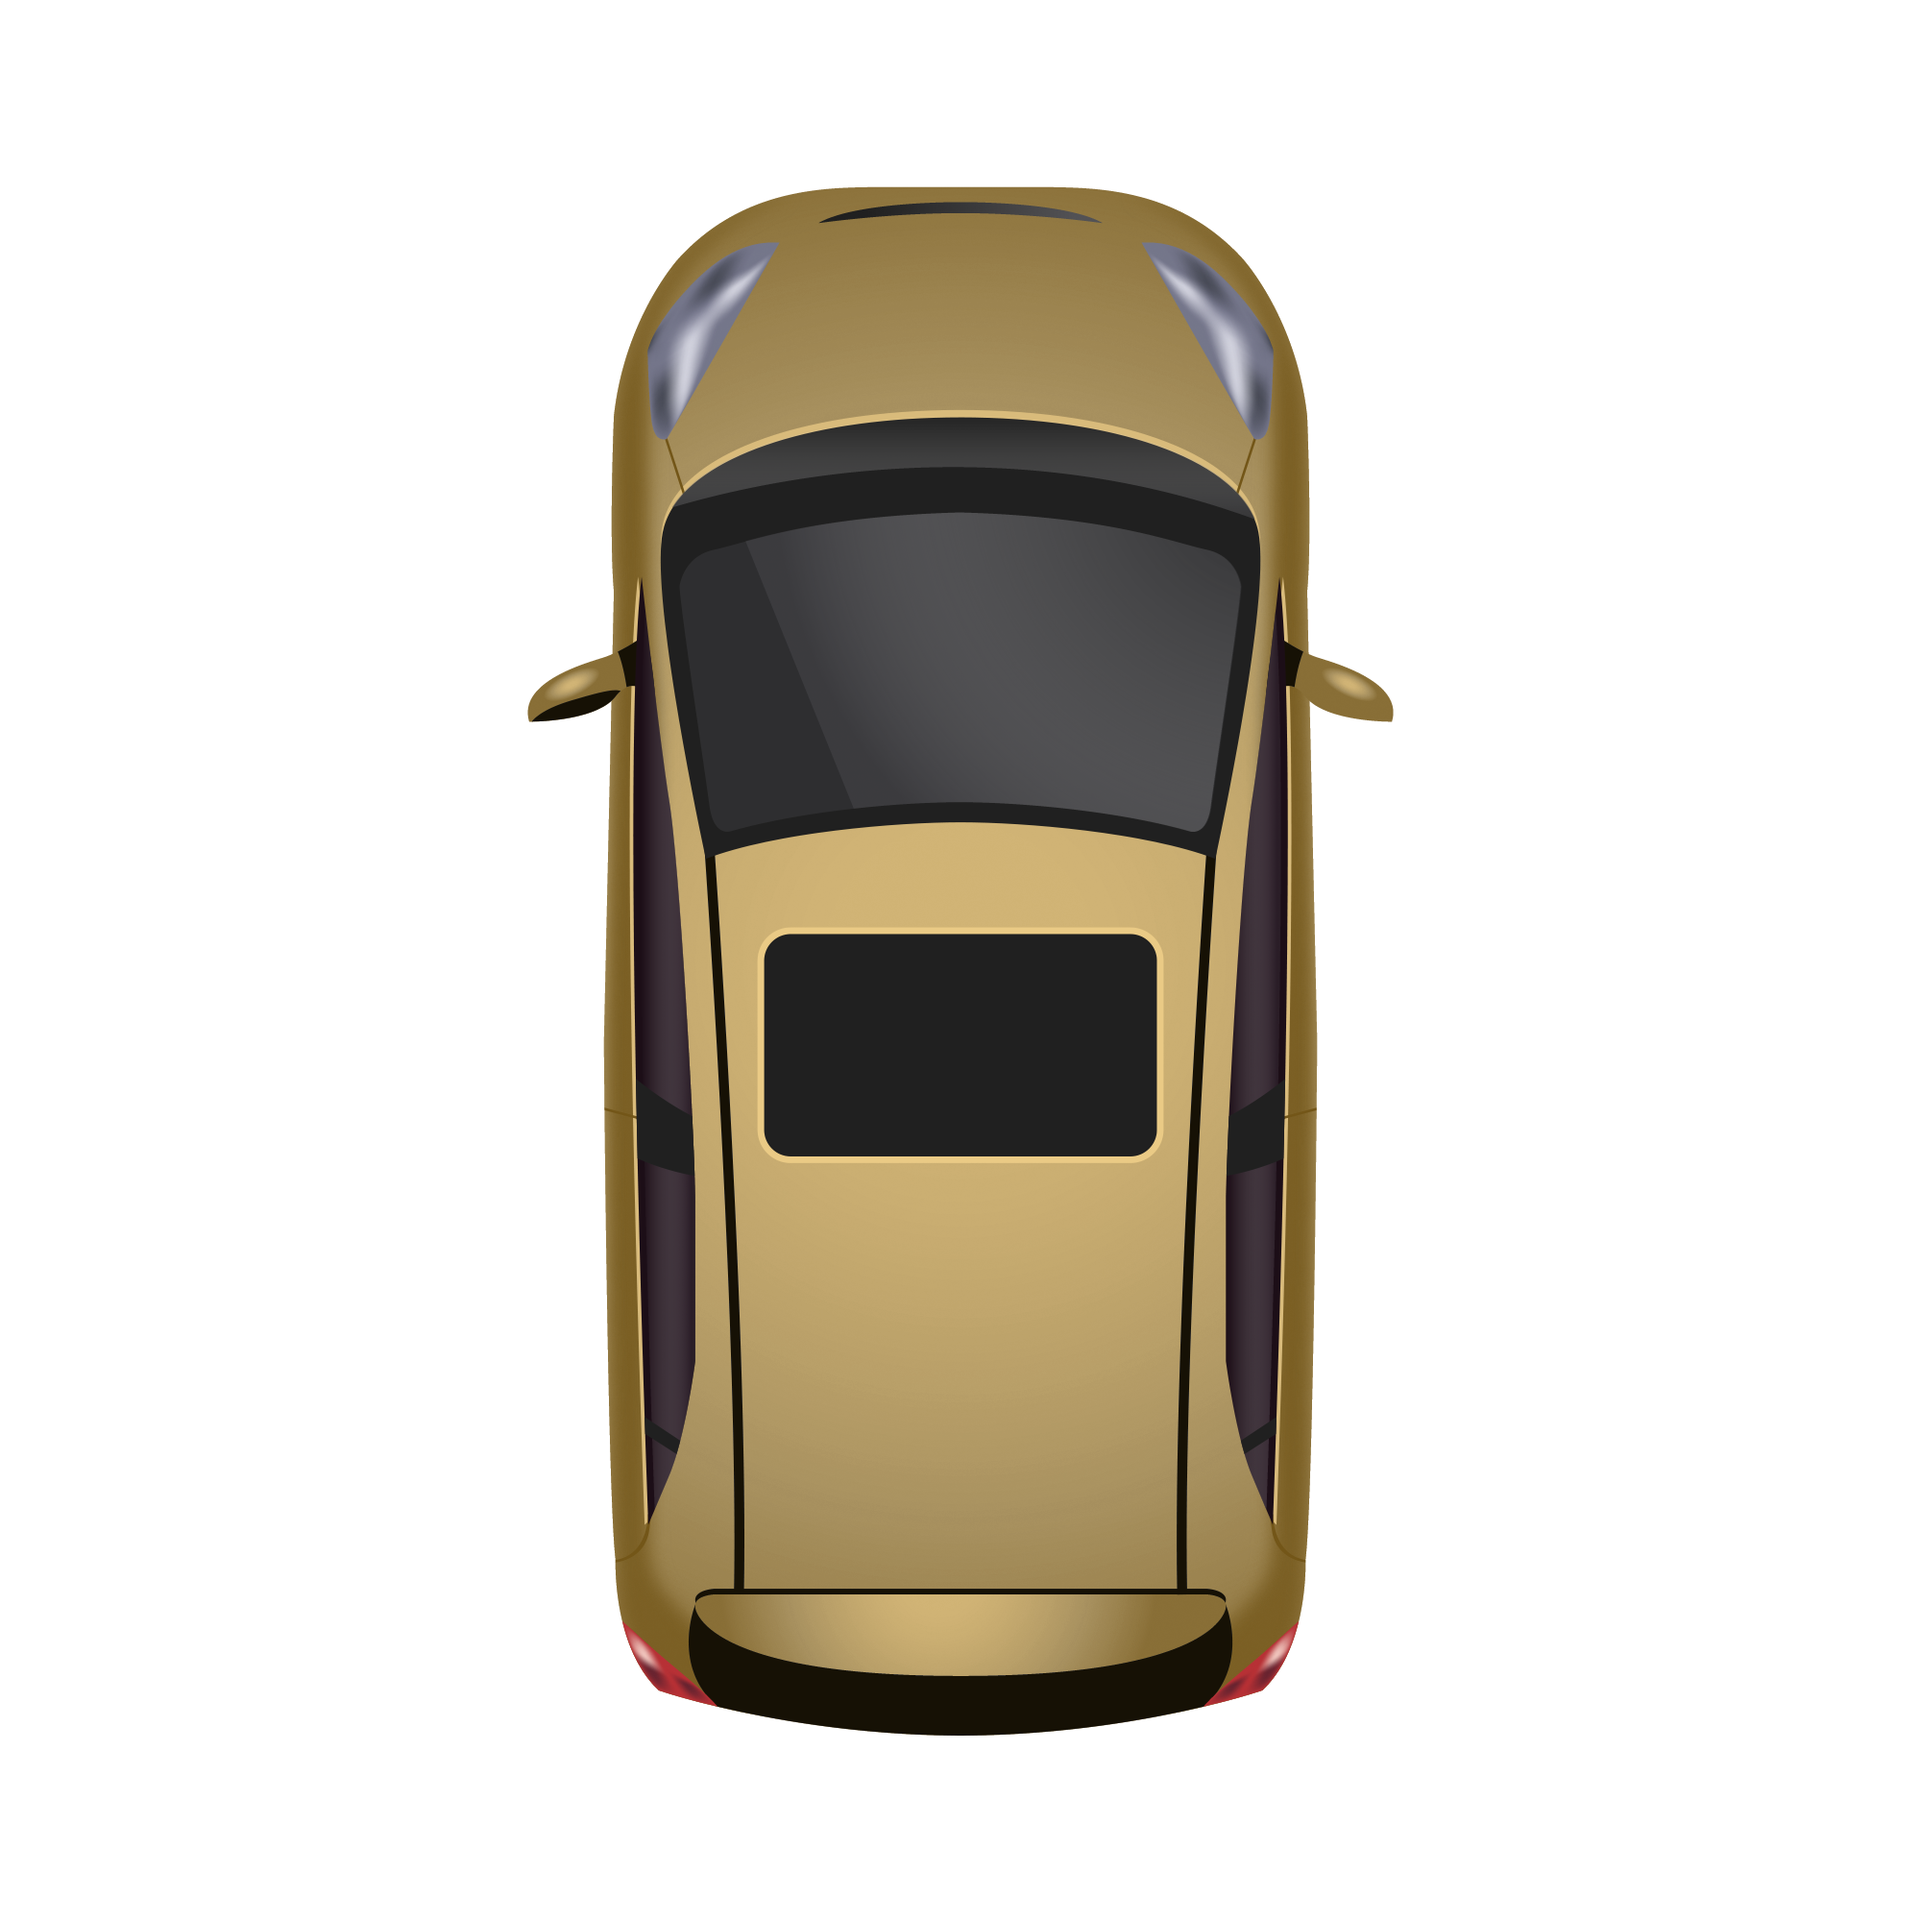
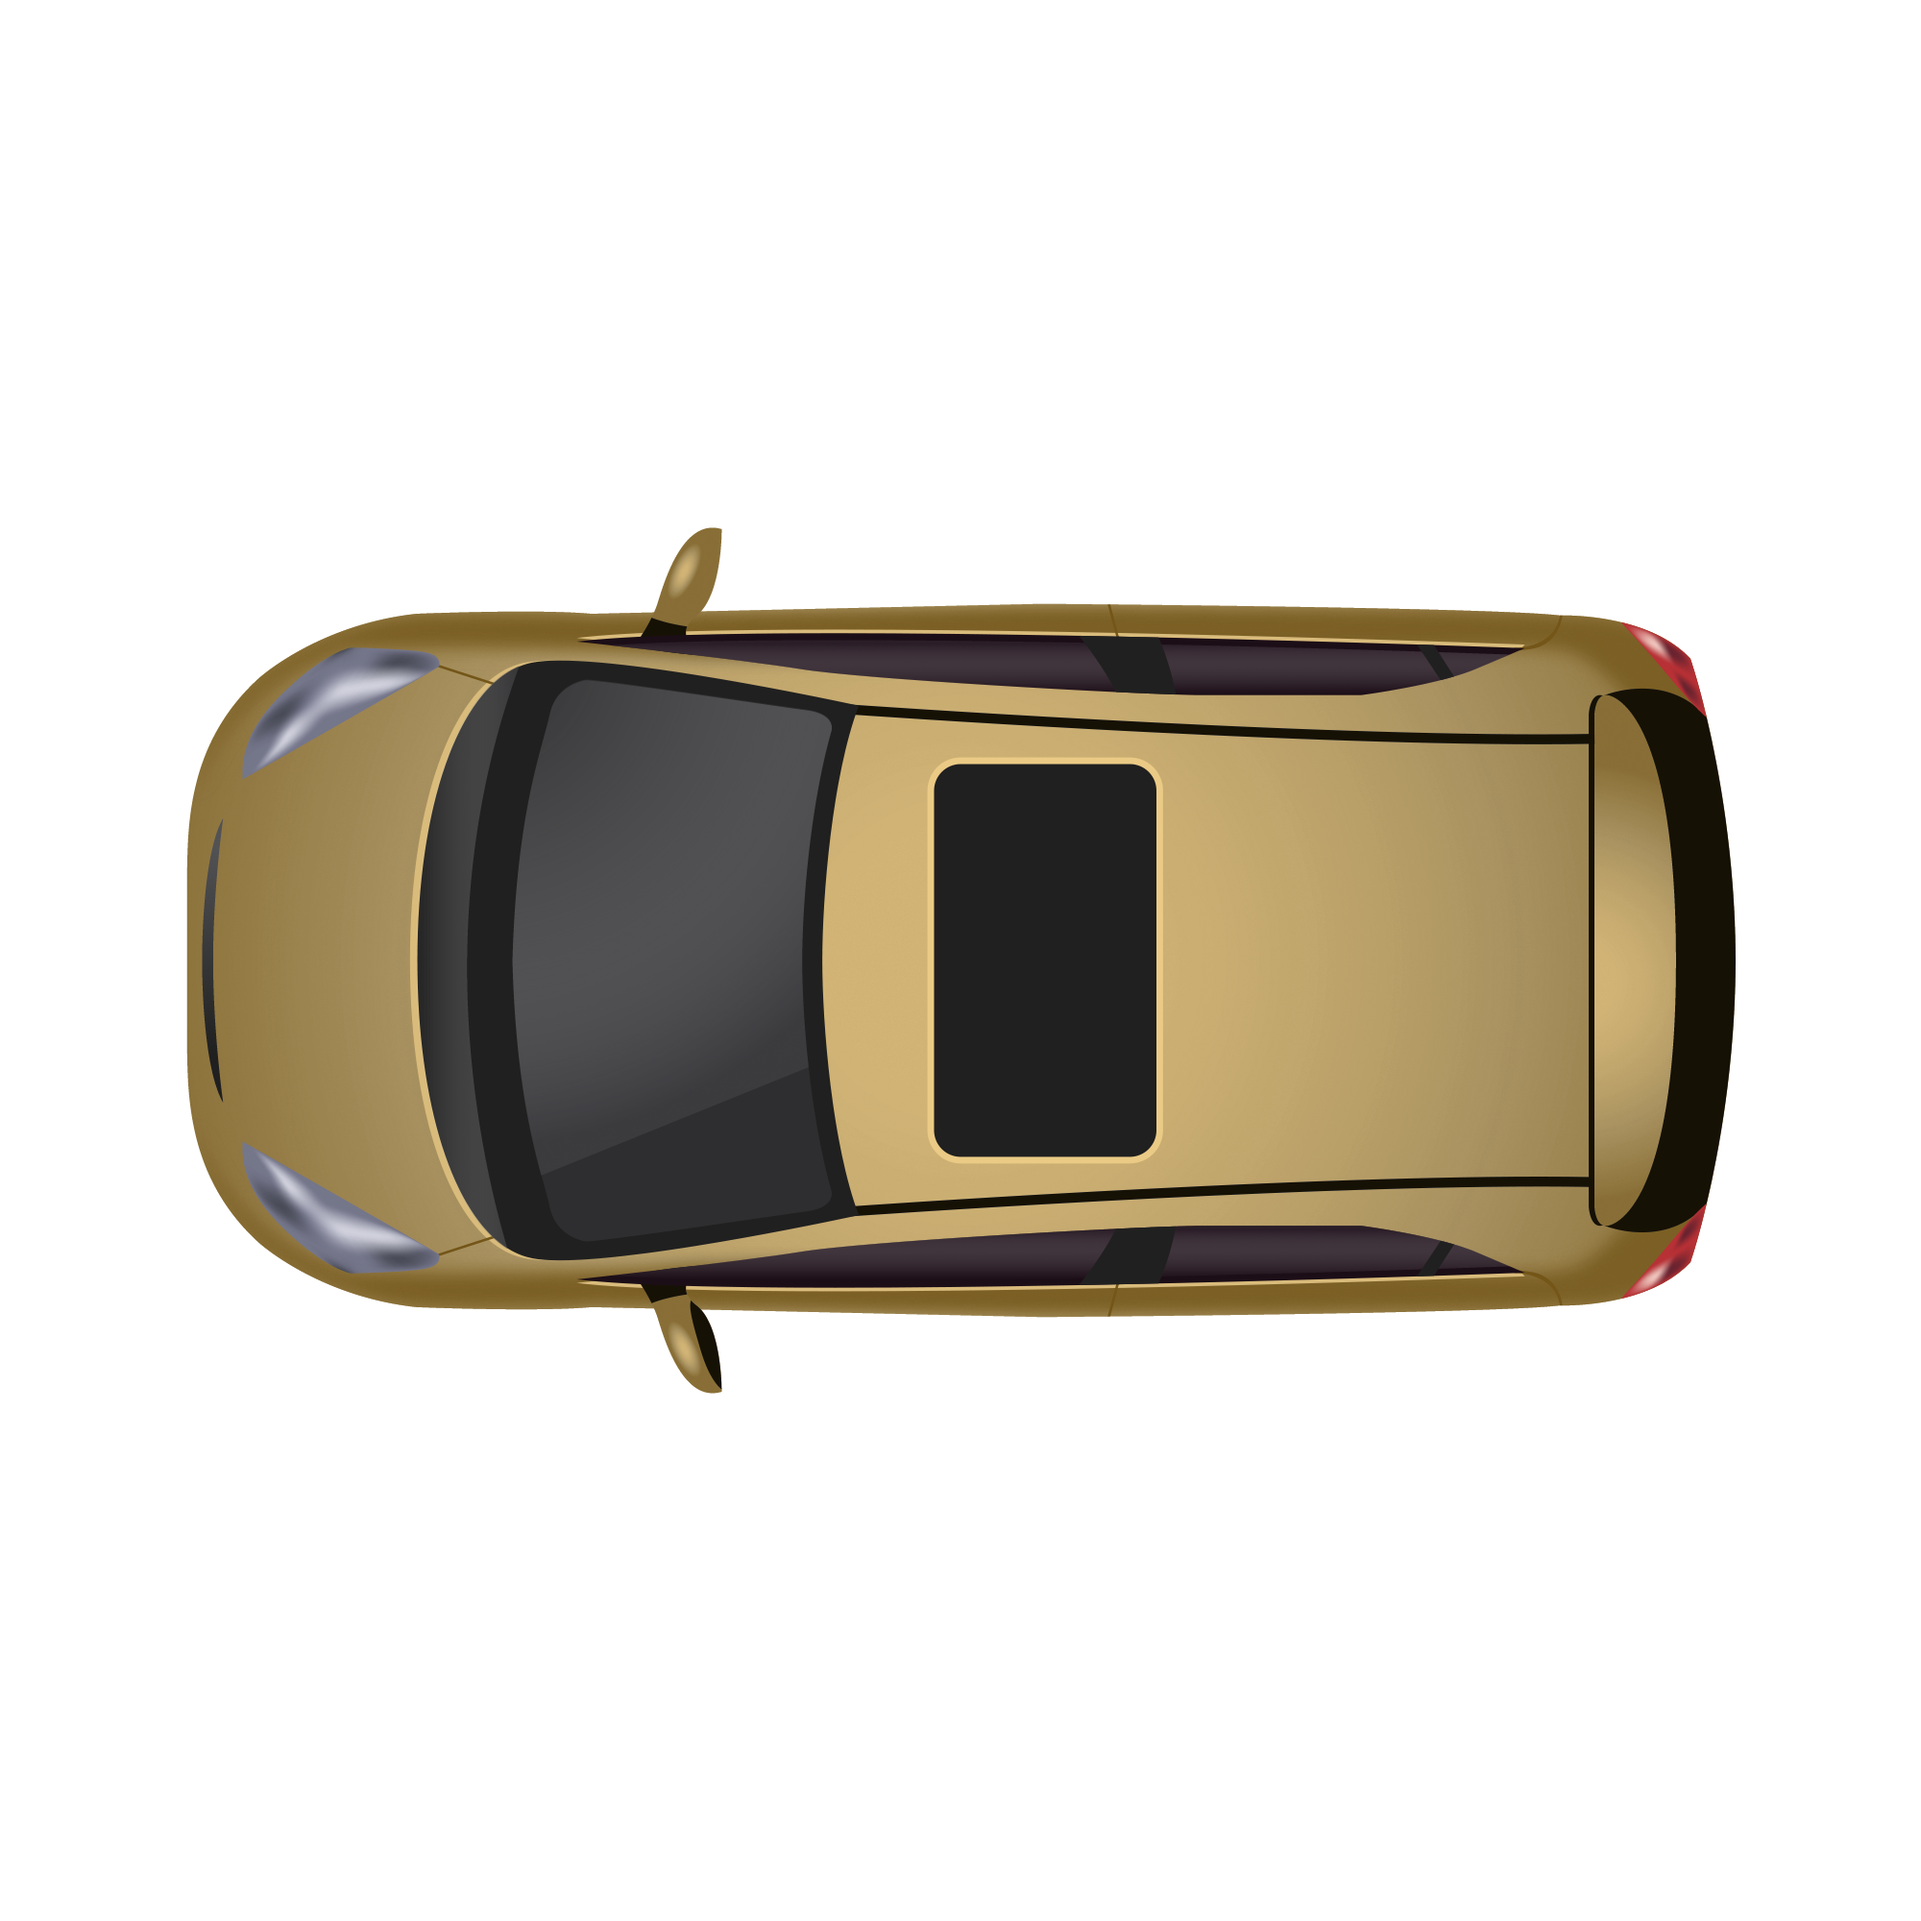
car fix

diff --git a/src/common/introducing.jsx b/src/common/introducing.jsx
@@ -64,7 +64,7 @@ gsap.fromTo(sliderRef.current, {}, {
    
 return (
 
-  <div className={`w-full overflow-hidden whitespace-nowrap  px-4 ${overlay?'h-[200px] md:!h-[300px]':'h-[70vh] md:!h-[80vh]'} ${className1}  flex items-center  container relative bg-[#0D1028]`} ref={containerRef}>
+  <div className={`w-full overflow-hidden whitespace-nowrap  px-4 ${overlay?'h-[200px] md:!h-[300px]':'h-[90vh] md:!h-[90vh]'} ${className1}  flex items-center  container relative bg-[#0D1028]`} ref={containerRef}>
     <div className={`inline-flex ${viewprojects ? 'gap-[20px]' :'gap-[30px]'} items-center`}ref={sliderRef}>
       
       {/* Text + Logo Block */}

diff --git a/src/common/places.jsx b/src/common/places.jsx
@@ -1,7 +1,7 @@
 
 import React, {  useEffect, useRef, useState } from 'react'
 import Image from 'next/image';
-import car from '../../public/assets/car1.png'
+import car from '../../public/assets/car.png'
 
 
 
